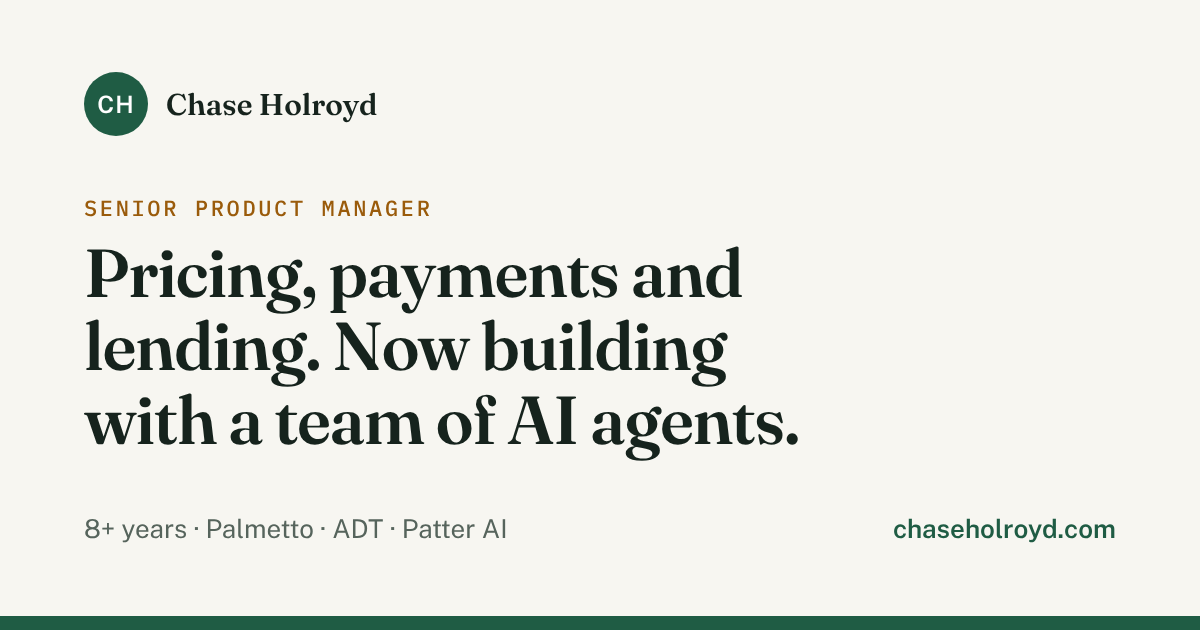
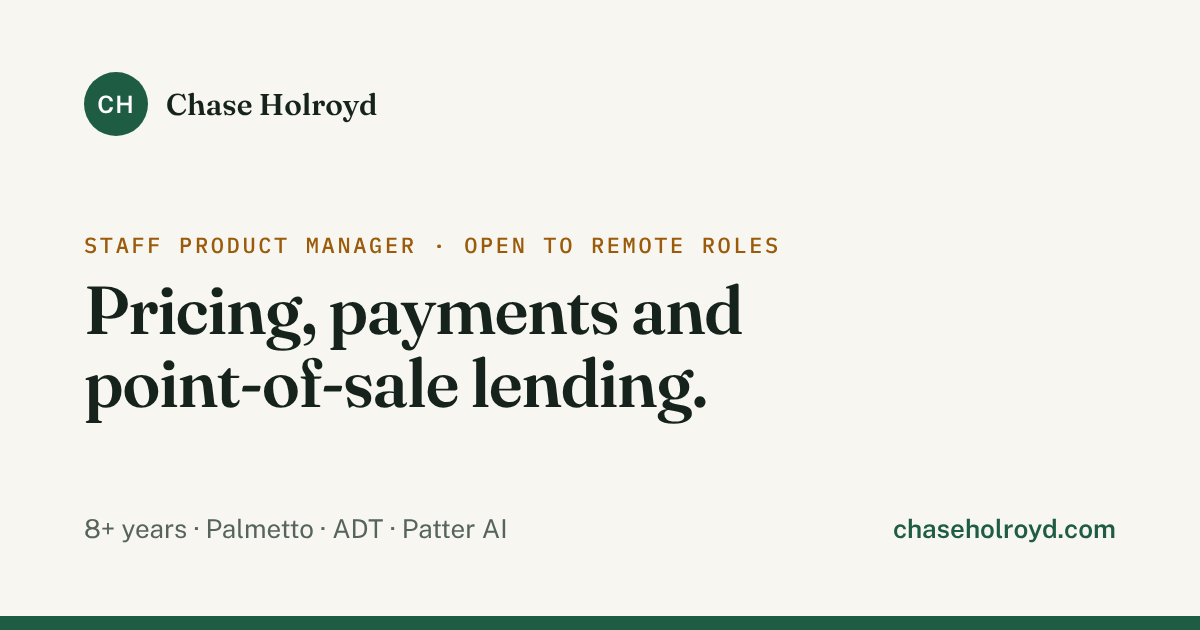
WEB-M2.2 (draft): hero leads with Staff PM, the lending lane and a proof bar
- Headline, subline and 4 proof numbers, all traced to the Oct 2026 resume
- 'Since Jan 2026: independent product work' replaces 'studio of one' on home and About
- Cards reordered: live demos first, the family photo app last
- Share card, meta description and JSON-LD title match the new positioning

Claude-Session: https://claude.ai/code/session_011au172tDRCb1uXjCPLZopx

Changed region(s): [[0.0617, 0.3016, 0.6783, 0.754]]

diff --git a/index.html b/index.html
@@ -4,20 +4,20 @@
 <meta charset="utf-8">
 <meta name="viewport" content="width=device-width,initial-scale=1,viewport-fit=cover">
 <title>Chase Holroyd</title>
-<meta name="description" content="Chase Holroyd, product manager. Products built with a team of AI agents: family photos, job search, AI energy and more.">
+<meta name="description" content="Chase Holroyd, staff product manager for pricing, payments and point-of-sale lending. Open to remote senior and staff PM roles.">
 <meta property="og:title" content="Chase Holroyd">
-<meta property="og:description" content="Chase Holroyd, product manager. Products built with a team of AI agents: family photos, job search, AI energy and more.">
+<meta property="og:description" content="Chase Holroyd, staff product manager for pricing, payments and point-of-sale lending. Open to remote senior and staff PM roles.">
 <meta property="og:url" content="https://chaseholroyd.com/">
 <meta property="og:type" content="website">
 <meta property="og:image" content="https://chaseholroyd.com/assets/share-card.png">
 <meta property="og:image:width" content="1200">
 <meta property="og:image:height" content="630">
-<meta property="og:image:alt" content="Chase Holroyd, senior product manager: pricing, payments and lending">
+<meta property="og:image:alt" content="Chase Holroyd, staff product manager: pricing, payments and point-of-sale lending">
 <meta name="twitter:card" content="summary_large_image">
 <link rel="canonical" href="https://chaseholroyd.com/">
 <script type="application/ld+json">
 {"@context":"https://schema.org","@type":"ProfilePage","mainEntity":{"@type":"Person","name":"Chase Holroyd",
-"jobTitle":"Senior Product Manager","description":"Senior product manager in pricing, payments and point-of-sale lending, building products with AI agents.",
+"jobTitle":"Staff Product Manager","description":"Staff product manager in pricing, payments and point-of-sale lending, building products with AI agents.",
 "url":"https://chaseholroyd.com","image":"https://chaseholroyd.com/assets/share-card.png",
 "address":{"@type":"PostalAddress","addressLocality":"Charlotte","addressRegion":"NC","addressCountry":"US"},
 "alumniOf":{"@type":"CollegeOrUniversity","name":"West Virginia University"},
@@ -37,16 +37,20 @@
 </div></header>
 <main class="wrap" id="main">
 <div class="read">
-<p class="eyebrow">Product manager · builder</p>
-<h1>I turn messy, real problems into products people actually use.</h1>
-<p class="lede">I'm Chase, a senior product manager with 8+ years in pricing, payments and point-of-sale lending, from solar to AI. These days I run a small product studio of one, building with a team of AI agents.</p>
-<div class="cta"><a class="btn primary" href="https://www.linkedin.com/in/chase-holroyd">Connect on LinkedIn</a><a class="btn" href="about.html">My story</a></div>
+<p class="eyebrow">Open to remote senior and staff PM roles</p>
+<h1>Staff PM for pricing, payments and point-of-sale lending.</h1>
+<p class="lede">8+ years building credit, offer and pricing engines for lenders, dealers and about 5,000 sales reps. Staff PM at Patter AI; before that ADT and Palmetto.</p>
+<div class="cta"><a class="btn primary" href="https://www.linkedin.com/in/chase-holroyd">Connect on LinkedIn</a><a class="btn" href="about.html">My path</a></div>
 </div>
-<h2>Current work</h2>
-<div class="grid"><a class="card" href="family-photos.html"><span class="tag">Building</span><h3>Family photo app</h3><p>Private photo sharing for split families and grandparents who avoid social media. Every post has a visible audience.</p></a><a class="card" href="role-radar.html"><span class="tag">Beta</span><h3>Role Radar</h3><p>A job-search radar that scans about 110 company boards each weekday and turns a good match into a tailored resume in one tap.</p></a><a class="card" href="ccwatts.html"><span class="tag">In development</span><h3>ccwatts</h3><p>How much electricity does your AI coding agent use? A local tool that answers as an honest range, with every assumption sourced.</p></a><a class="card" href="energy-scanner.html"><span class="tag">Prototype</span><h3>Energy Scanner</h3><p>A bedtime routine for kids that ends in a playful energy scan, so the machine says it's time for bed instead of the parent.</p></a><a class="card" href="pm-tools.html"><span class="tag">How I work</span><h3>A one-person product studio</h3><p>Build Slate, a multi-board roadmap, persona checks enforced in CI, a decision log, and a team of AI agents with defined lanes.</p></a></div>
+<div class="facts"><div class="fact"><b>12,000+</b><span>credit applications a month through the offer engine I led</span></div><div class="fact"><b>3–5 pts</b><span>dealer fees cut with lender allocation</span></div><div class="fact"><b>13+</b><span>lender integrations shipped</span></div><div class="fact"><b>1 mo → 1 wk</b><span>to onboard a new lender, with a rules engine</span></div></div>
+<div class="read">
+<h2>Since Jan 2026: independent product work</h2>
+<p>Between roles, I'm building AI-agent tools in public to stay sharp on how LLM products ship. Not raising, not selling; ready for a full-time role. Each one runs on sample data, right in your browser.</p>
+</div>
+<div class="grid"><a class="card" href="role-radar.html"><span class="tag">Live demo</span><h3>Role Radar</h3><p>A job-search radar that scans about 110 company boards each weekday and turns a good match into a tailored resume in one tap.</p></a><a class="card" href="ccwatts.html"><span class="tag">Live playground</span><h3>ccwatts</h3><p>How much electricity does your AI coding agent use? A local tool that answers as an honest range, with every assumption sourced.</p></a><a class="card" href="pm-tools.html"><span class="tag">Live demos</span><h3>How I run product work</h3><p>Build Slate, a multi-board roadmap, persona checks enforced in CI, a decision log, and a team of AI agents with defined lanes.</p></a><a class="card" href="energy-scanner.html"><span class="tag">Live demo</span><h3>Energy Scanner</h3><p>A bedtime routine for kids that ends in a playful energy scan, so the machine says it's time for bed instead of the parent.</p></a><a class="card" href="family-photos.html"><span class="tag">Private beta soon</span><h3>Family photo app</h3><p>Private photo sharing for split families and grandparents who avoid social media. Every post has a visible audience.</p></a></div>
 </main>
 <footer class="site"><div class="wrap">
-<span>© 2026 Chase Holroyd · Senior product manager · Charlotte, NC</span>
+<span>© 2026 Chase Holroyd · Product manager · Charlotte, NC</span>
 <span><a href="https://www.linkedin.com/in/chase-holroyd">LinkedIn</a> · <a href="https://github.com/holroydchase-afk">GitHub</a></span>
 </div></footer>
 </body>

diff --git a/about.html b/about.html
@@ -12,12 +12,12 @@
 <meta property="og:image" content="https://chaseholroyd.com/assets/share-card.png">
 <meta property="og:image:width" content="1200">
 <meta property="og:image:height" content="630">
-<meta property="og:image:alt" content="Chase Holroyd, senior product manager: pricing, payments and lending">
+<meta property="og:image:alt" content="Chase Holroyd, staff product manager: pricing, payments and point-of-sale lending">
 <meta name="twitter:card" content="summary_large_image">
 <link rel="canonical" href="https://chaseholroyd.com/about.html">
 <script type="application/ld+json">
 {"@context":"https://schema.org","@type":"ProfilePage","mainEntity":{"@type":"Person","name":"Chase Holroyd",
-"jobTitle":"Senior Product Manager","description":"Senior product manager in pricing, payments and point-of-sale lending, building products with AI agents.",
+"jobTitle":"Staff Product Manager","description":"Staff product manager in pricing, payments and point-of-sale lending, building products with AI agents.",
 "url":"https://chaseholroyd.com","image":"https://chaseholroyd.com/assets/share-card.png",
 "address":{"@type":"PostalAddress","addressLocality":"Charlotte","addressRegion":"NC","addressCountry":"US"},
 "alumniOf":{"@type":"CollegeOrUniversity","name":"West Virginia University"},
@@ -48,7 +48,7 @@
 <li><b>Product Owner, AGDATA (2020).</b> Scoped a master data platform to replace 8+ legacy pricing and rebate systems.</li>
 <li><b>PM, then Senior PM, ADT (2020–2023).</b> First PM for a 3,000-person solar division. Built the credit-check and offer engine (12,000+ applications a month), a lender allocation platform that helped cut dealer fees 3–5 points, a channel-partner pricing platform, and the Lowe's in-store program. Shipped to about 5,000 reps.</li>
 <li><b>Staff PM, Patter AI (2023–2026).</b> A real-time pricing engine across loans, leases and PPAs, rep-guided checkout, AI conversation analysis that found 40% of a client's reps going off-script, and a rules engine that cut lender onboarding from about a month to a week.</li>
-<li><b>Now: a product studio of one.</b> Building the products on this site with a team of AI agents.</li>
+<li><b>Since Jan 2026: independent product work.</b> Between roles, I'm building AI-agent tools in public (job search, AI energy, PM operations) to stay sharp on how LLM products ship. Not raising, not selling; ready for a full-time role.</li>
 </ol>
 <h2>What I care about</h2>
 <ul class="clean"><li>Checkout, pricing and payments that feel simple to the person at the kitchen table.</li>
@@ -60,7 +60,7 @@
 </div>
 </main>
 <footer class="site"><div class="wrap">
-<span>© 2026 Chase Holroyd · Senior product manager · Charlotte, NC</span>
+<span>© 2026 Chase Holroyd · Product manager · Charlotte, NC</span>
 <span><a href="https://www.linkedin.com/in/chase-holroyd">LinkedIn</a> · <a href="https://github.com/holroydchase-afk">GitHub</a></span>
 </div></footer>
 </body>

diff --git a/404.html b/404.html
@@ -12,7 +12,7 @@
 <meta property="og:image" content="https://chaseholroyd.com/assets/share-card.png">
 <meta property="og:image:width" content="1200">
 <meta property="og:image:height" content="630">
-<meta property="og:image:alt" content="Chase Holroyd, senior product manager: pricing, payments and lending">
+<meta property="og:image:alt" content="Chase Holroyd, staff product manager: pricing, payments and point-of-sale lending">
 <meta name="twitter:card" content="summary_large_image">
 <link rel="canonical" href="https://chaseholroyd.com/404.html">
 <link rel="preconnect" href="https://fonts.googleapis.com">
@@ -32,7 +32,7 @@
 <p class="lede">It may have moved. The <a href="index.html">work page</a> lists everything.</p></div>
 </main>
 <footer class="site"><div class="wrap">
-<span>© 2026 Chase Holroyd · Senior product manager · Charlotte, NC</span>
+<span>© 2026 Chase Holroyd · Product manager · Charlotte, NC</span>
 <span><a href="https://www.linkedin.com/in/chase-holroyd">LinkedIn</a> · <a href="https://github.com/holroydchase-afk">GitHub</a></span>
 </div></footer>
 </body>

diff --git a/energy-scanner.html b/energy-scanner.html
@@ -12,7 +12,7 @@
 <meta property="og:image" content="https://chaseholroyd.com/assets/share-card.png">
 <meta property="og:image:width" content="1200">
 <meta property="og:image:height" content="630">
-<meta property="og:image:alt" content="Chase Holroyd, senior product manager: pricing, payments and lending">
+<meta property="og:image:alt" content="Chase Holroyd, staff product manager: pricing, payments and point-of-sale lending">
 <meta name="twitter:card" content="summary_large_image">
 <link rel="canonical" href="https://chaseholroyd.com/energy-scanner.html">
 <link rel="preconnect" href="https://fonts.googleapis.com">
@@ -39,7 +39,7 @@
 <p style="margin-top:40px"><a href="index.html">← All work</a></p></div>
 </main>
 <footer class="site"><div class="wrap">
-<span>© 2026 Chase Holroyd · Senior product manager · Charlotte, NC</span>
+<span>© 2026 Chase Holroyd · Product manager · Charlotte, NC</span>
 <span><a href="https://www.linkedin.com/in/chase-holroyd">LinkedIn</a> · <a href="https://github.com/holroydchase-afk">GitHub</a></span>
 </div></footer>
 </body>

diff --git a/family-photos.html b/family-photos.html
@@ -12,7 +12,7 @@
 <meta property="og:image" content="https://chaseholroyd.com/assets/share-card.png">
 <meta property="og:image:width" content="1200">
 <meta property="og:image:height" content="630">
-<meta property="og:image:alt" content="Chase Holroyd, senior product manager: pricing, payments and lending">
+<meta property="og:image:alt" content="Chase Holroyd, staff product manager: pricing, payments and point-of-sale lending">
 <meta name="twitter:card" content="summary_large_image">
 <link rel="canonical" href="https://chaseholroyd.com/family-photos.html">
 <link rel="preconnect" href="https://fonts.googleapis.com">
@@ -39,7 +39,7 @@
 <p style="margin-top:40px"><a href="index.html">← All work</a></p></div>
 </main>
 <footer class="site"><div class="wrap">
-<span>© 2026 Chase Holroyd · Senior product manager · Charlotte, NC</span>
+<span>© 2026 Chase Holroyd · Product manager · Charlotte, NC</span>
 <span><a href="https://www.linkedin.com/in/chase-holroyd">LinkedIn</a> · <a href="https://github.com/holroydchase-afk">GitHub</a></span>
 </div></footer>
 </body>

diff --git a/role-radar.html b/role-radar.html
@@ -12,7 +12,7 @@
 <meta property="og:image" content="https://chaseholroyd.com/assets/share-card.png">
 <meta property="og:image:width" content="1200">
 <meta property="og:image:height" content="630">
-<meta property="og:image:alt" content="Chase Holroyd, senior product manager: pricing, payments and lending">
+<meta property="og:image:alt" content="Chase Holroyd, staff product manager: pricing, payments and point-of-sale lending">
 <meta name="twitter:card" content="summary_large_image">
 <link rel="canonical" href="https://chaseholroyd.com/role-radar.html">
 <link rel="preconnect" href="https://fonts.googleapis.com">
@@ -39,7 +39,7 @@
 <p style="margin-top:40px"><a href="index.html">← All work</a></p></div>
 </main>
 <footer class="site"><div class="wrap">
-<span>© 2026 Chase Holroyd · Senior product manager · Charlotte, NC</span>
+<span>© 2026 Chase Holroyd · Product manager · Charlotte, NC</span>
 <span><a href="https://www.linkedin.com/in/chase-holroyd">LinkedIn</a> · <a href="https://github.com/holroydchase-afk">GitHub</a></span>
 </div></footer>
 </body>

diff --git a/ccwatts.html b/ccwatts.html
@@ -12,7 +12,7 @@
 <meta property="og:image" content="https://chaseholroyd.com/assets/share-card.png">
 <meta property="og:image:width" content="1200">
 <meta property="og:image:height" content="630">
-<meta property="og:image:alt" content="Chase Holroyd, senior product manager: pricing, payments and lending">
+<meta property="og:image:alt" content="Chase Holroyd, staff product manager: pricing, payments and point-of-sale lending">
 <meta name="twitter:card" content="summary_large_image">
 <link rel="canonical" href="https://chaseholroyd.com/ccwatts.html">
 <link rel="preconnect" href="https://fonts.googleapis.com">
@@ -39,7 +39,7 @@
 <p style="margin-top:40px"><a href="index.html">← All work</a></p></div>
 </main>
 <footer class="site"><div class="wrap">
-<span>© 2026 Chase Holroyd · Senior product manager · Charlotte, NC</span>
+<span>© 2026 Chase Holroyd · Product manager · Charlotte, NC</span>
 <span><a href="https://www.linkedin.com/in/chase-holroyd">LinkedIn</a> · <a href="https://github.com/holroydchase-afk">GitHub</a></span>
 </div></footer>
 </body>

diff --git a/pm-tools.html b/pm-tools.html
@@ -12,7 +12,7 @@
 <meta property="og:image" content="https://chaseholroyd.com/assets/share-card.png">
 <meta property="og:image:width" content="1200">
 <meta property="og:image:height" content="630">
-<meta property="og:image:alt" content="Chase Holroyd, senior product manager: pricing, payments and lending">
+<meta property="og:image:alt" content="Chase Holroyd, staff product manager: pricing, payments and point-of-sale lending">
 <meta name="twitter:card" content="summary_large_image">
 <link rel="canonical" href="https://chaseholroyd.com/pm-tools.html">
 <link rel="preconnect" href="https://fonts.googleapis.com">
@@ -50,7 +50,7 @@
 </div>
 </main>
 <footer class="site"><div class="wrap">
-<span>© 2026 Chase Holroyd · Senior product manager · Charlotte, NC</span>
+<span>© 2026 Chase Holroyd · Product manager · Charlotte, NC</span>
 <span><a href="https://www.linkedin.com/in/chase-holroyd">LinkedIn</a> · <a href="https://github.com/holroydchase-afk">GitHub</a></span>
 </div></footer>
 </body>

diff --git a/tools/share-card.html b/tools/share-card.html
@@ -13,7 +13,7 @@ h1{font:600 68px/1.08 "Fraunces",Georgia,serif;margin:14px 0 0;letter-spacing:-.
 .foot b{color:#1F5C44}
 </style></head><body>
 <div class="top"><span class="mono">CH</span>Chase Holroyd</div>
-<div><div class="eyebrow">Senior product manager</div>
-<h1>Pricing, payments and lending. Now building with a team of AI agents.</h1></div>
+<div><div class="eyebrow">Staff product manager · open to remote roles</div>
+<h1>Pricing, payments and point-of-sale lending.</h1></div>
 <div class="foot"><span>8+ years · Palmetto · ADT · Patter AI</span><b>chaseholroyd.com</b></div>
 </body></html>

diff --git a/tools/build.py b/tools/build.py
@@ -23,7 +23,7 @@ FONTS = ("https://fonts.googleapis.com/css2?family=Fraunces:opsz,wght@9..144,600
 # Person markup so a search for the name can show the right profile. No email or phone, by rule.
 JSONLD = """<script type="application/ld+json">
 {"@context":"https://schema.org","@type":"ProfilePage","mainEntity":{"@type":"Person","name":"Chase Holroyd",
-"jobTitle":"Senior Product Manager","description":"Senior product manager in pricing, payments and point-of-sale lending, building products with AI agents.",
+"jobTitle":"Staff Product Manager","description":"Staff product manager in pricing, payments and point-of-sale lending, building products with AI agents.",
 "url":"https://chaseholroyd.com","image":"https://chaseholroyd.com/assets/share-card.png",
 "address":{"@type":"PostalAddress","addressLocality":"Charlotte","addressRegion":"NC","addressCountry":"US"},
 "alumniOf":{"@type":"CollegeOrUniversity","name":"West Virginia University"},
@@ -52,7 +52,7 @@ def page(slug, title, description, body):
 <meta property="og:image" content="{SITE}/assets/share-card.png">
 <meta property="og:image:width" content="1200">
 <meta property="og:image:height" content="630">
-<meta property="og:image:alt" content="Chase Holroyd, senior product manager: pricing, payments and lending">
+<meta property="og:image:alt" content="Chase Holroyd, staff product manager: pricing, payments and point-of-sale lending">
 <meta name="twitter:card" content="summary_large_image">
 <link rel="canonical" href="{SITE}/{'' if slug == 'index.html' else slug}">
 {JSONLD if slug in ('index.html', 'about.html') else ''}<link rel="preconnect" href="https://fonts.googleapis.com">
@@ -71,7 +71,7 @@ def page(slug, title, description, body):
 {body}
 </main>
 <footer class="site"><div class="wrap">
-<span>© 2026 Chase Holroyd · Senior product manager · Charlotte, NC</span>
+<span>© 2026 Chase Holroyd · Product manager · Charlotte, NC</span>
 <span><a href="{LINKEDIN}">LinkedIn</a> · <a href="{GITHUB}">GitHub</a></span>
 </div></footer>
 </body>
@@ -100,25 +100,37 @@ def product(eyebrow, name, lede, facts, sections, status_note=None, links=None):
 
 
 CARDS = [
-    ("family-photos.html", "Building", "Family photo app",
-     "Private photo sharing for split families and grandparents who avoid social media. Every post has a visible audience."),
-    ("role-radar.html", "Beta", "Role Radar",
+    ("role-radar.html", "Live demo", "Role Radar",
      "A job-search radar that scans about 110 company boards each weekday and turns a good match into a tailored resume in one tap."),
-    ("ccwatts.html", "In development", "ccwatts",
+    ("ccwatts.html", "Live playground", "ccwatts",
      "How much electricity does your AI coding agent use? A local tool that answers as an honest range, with every assumption sourced."),
-    ("energy-scanner.html", "Prototype", "Energy Scanner",
-     "A bedtime routine for kids that ends in a playful energy scan, so the machine says it's time for bed instead of the parent."),
-    ("pm-tools.html", "How I work", "A one-person product studio",
+    ("pm-tools.html", "Live demos", "How I run product work",
      "Build Slate, a multi-board roadmap, persona checks enforced in CI, a decision log, and a team of AI agents with defined lanes."),
+    ("energy-scanner.html", "Live demo", "Energy Scanner",
+     "A bedtime routine for kids that ends in a playful energy scan, so the machine says it's time for bed instead of the parent."),
+    ("family-photos.html", "Private beta soon", "Family photo app",
+     "Private photo sharing for split families and grandparents who avoid social media. Every post has a visible audience."),
+]
+
+# Every number here traces to pmo/story/resume-2026-10.md. Change them only with the resume.
+PROOF = [
+    ("12,000+", "credit applications a month through the offer engine I led"),
+    ("3–5 pts", "dealer fees cut with lender allocation"),
+    ("13+", "lender integrations shipped"),
+    ("1 mo → 1 wk", "to onboard a new lender, with a rules engine"),
 ]
 
 home = f"""<div class="read">
-<p class="eyebrow">Product manager · builder</p>
-<h1>I turn messy, real problems into products people actually use.</h1>
-<p class="lede">I'm Chase, a senior product manager with 8+ years in pricing, payments and point-of-sale lending, from solar to AI. These days I run a small product studio of one, building with a team of AI agents.</p>
-<div class="cta"><a class="btn primary" href="{LINKEDIN}">Connect on LinkedIn</a><a class="btn" href="about.html">My story</a></div>
+<p class="eyebrow">Open to remote senior and staff PM roles</p>
+<h1>Staff PM for pricing, payments and point-of-sale lending.</h1>
+<p class="lede">8+ years building credit, offer and pricing engines for lenders, dealers and about 5,000 sales reps. Staff PM at Patter AI; before that ADT and Palmetto.</p>
+<div class="cta"><a class="btn primary" href="{LINKEDIN}">Connect on LinkedIn</a><a class="btn" href="about.html">My path</a></div>
 </div>
-<h2>Current work</h2>
+<div class="facts">""" + "".join(f'<div class="fact"><b>{v}</b><span>{k}</span></div>' for v, k in PROOF) + """</div>
+<div class="read">
+<h2>Since Jan 2026: independent product work</h2>
+<p>Between roles, I'm building AI-agent tools in public to stay sharp on how LLM products ship. Not raising, not selling; ready for a full-time role. Each one runs on sample data, right in your browser.</p>
+</div>
 <div class="grid">""" + "".join(
     f'<a class="card" href="{h}"><span class="tag">{s}</span><h3>{n}</h3><p>{d}</p></a>' for h, s, n, d in CARDS
 ) + "</div>"
@@ -229,7 +241,7 @@ about = f"""<div class="read">
 <li><b>Product Owner, AGDATA (2020).</b> Scoped a master data platform to replace 8+ legacy pricing and rebate systems.</li>
 <li><b>PM, then Senior PM, ADT (2020–2023).</b> First PM for a 3,000-person solar division. Built the credit-check and offer engine (12,000+ applications a month), a lender allocation platform that helped cut dealer fees 3–5 points, a channel-partner pricing platform, and the Lowe's in-store program. Shipped to about 5,000 reps.</li>
 <li><b>Staff PM, Patter AI (2023–2026).</b> A real-time pricing engine across loans, leases and PPAs, rep-guided checkout, AI conversation analysis that found 40% of a client's reps going off-script, and a rules engine that cut lender onboarding from about a month to a week.</li>
-<li><b>Now: a product studio of one.</b> Building the products on this site with a team of AI agents.</li>
+<li><b>Since Jan 2026: independent product work.</b> Between roles, I'm building AI-agent tools in public (job search, AI energy, PM operations) to stay sharp on how LLM products ship. Not raising, not selling; ready for a full-time role.</li>
 </ol>
 <h2>What I care about</h2>
 <ul class="clean"><li>Checkout, pricing and payments that feel simple to the person at the kitchen table.</li>
@@ -244,7 +256,7 @@ notfound = """<div class="read"><p class="eyebrow">404</p><h1>That page isn't he
 <p class="lede">It may have moved. The <a href="index.html">work page</a> lists everything.</p></div>"""
 
 PAGES = [
-    ("index.html", "Work", "Chase Holroyd, product manager. Products built with a team of AI agents: family photos, job search, AI energy and more.", home),
+    ("index.html", "Work", "Chase Holroyd, staff product manager for pricing, payments and point-of-sale lending. Open to remote senior and staff PM roles.", home),
     ("family-photos.html", "Family photo app", "A private family photo app for split families and grandparents, with a chosen audience on every post.", family),
     ("role-radar.html", "Role Radar", "An AI job-search radar that scans about 110 company boards each weekday.", role_radar),
     ("ccwatts.html", "ccwatts", "Estimate the electricity your Claude Code usage consumes, as an honest range.", ccwatts),
